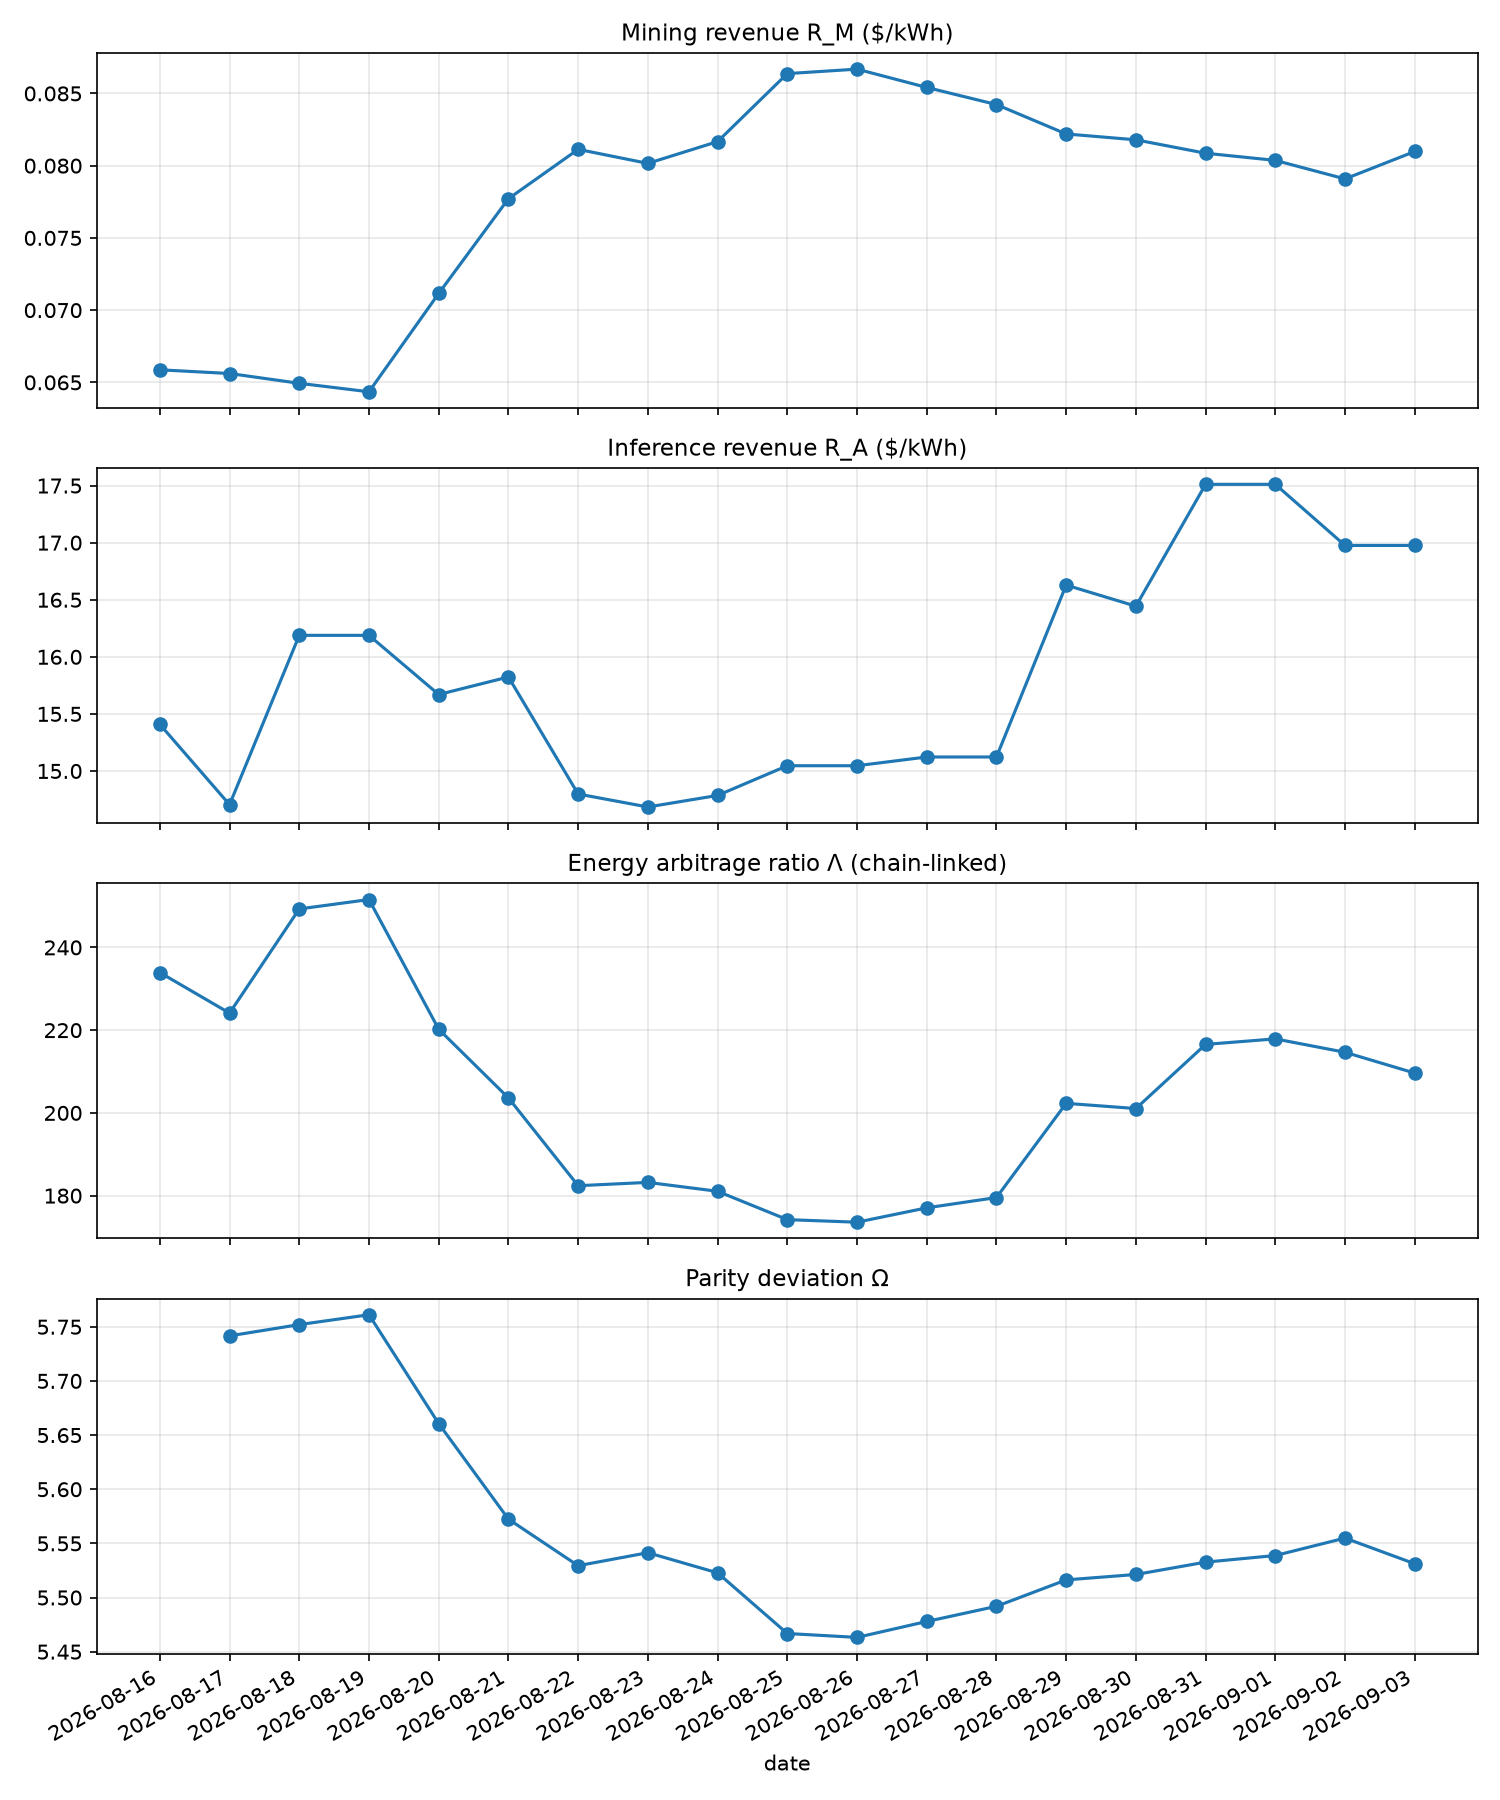
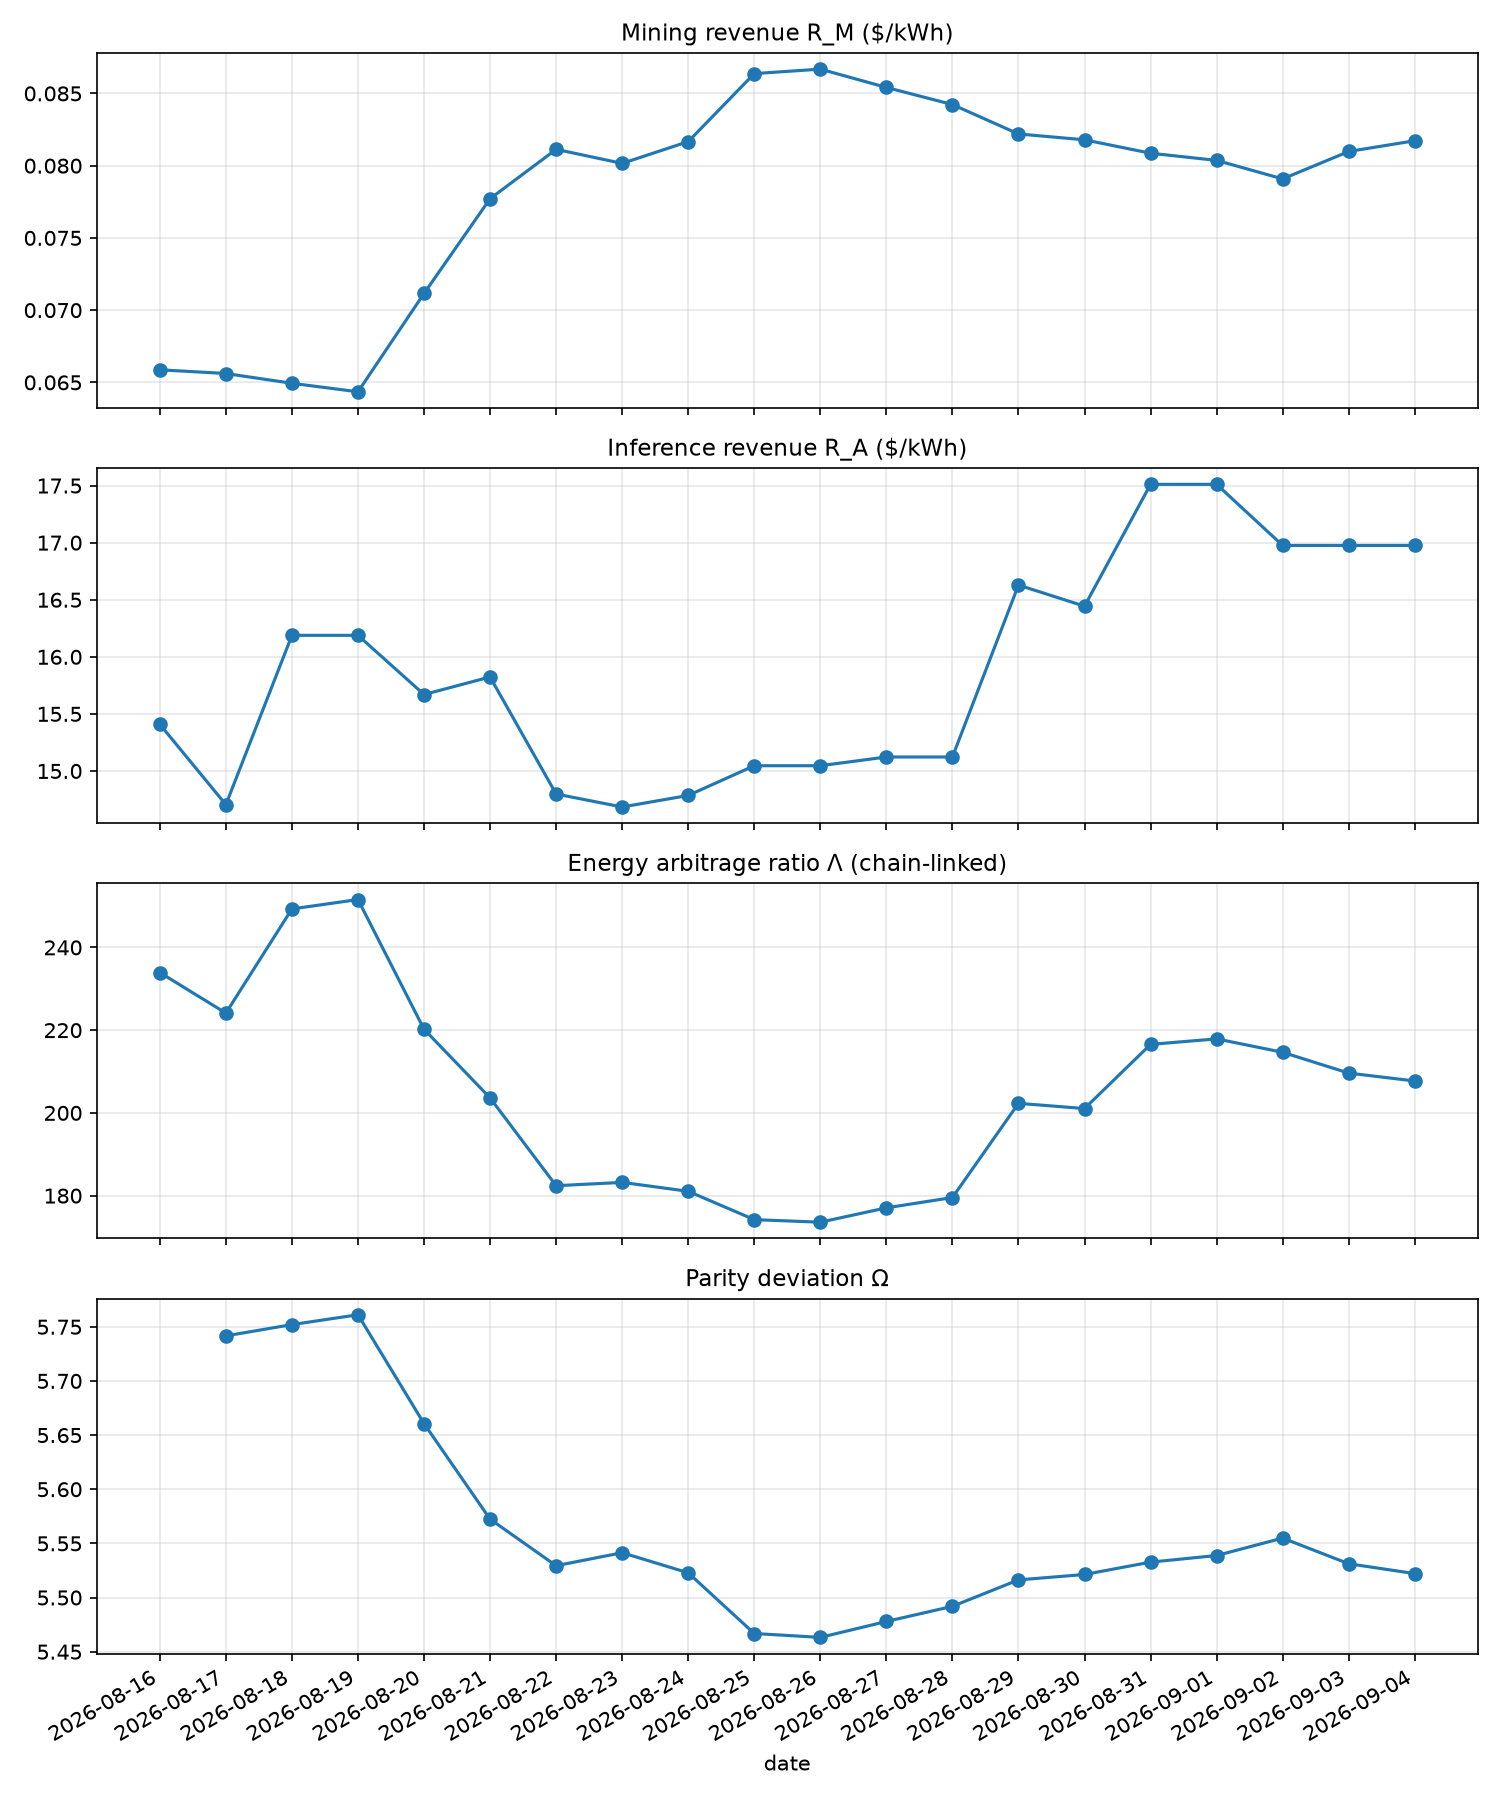
daily update 2026-09-04

diff --git a/docs/index.html b/docs/index.html
@@ -96,7 +96,7 @@ footer a { color: var(--faint); }
   <div class="eyebrow">Abundantics · 丰裕学 / 实证模块 01</div>
   <h1>Token 能量平价指数</h1>
   <p class="sub">同一焦耳，两种耗散：AI 推理 token 与 PoW 加密货币折算到同一物理公分母（每千瓦时收入）后的日频指数族。</p>
-  <div class="stamp">最近更新 2026-09-03 · 数据源 CoinGecko / mempool.space / OpenRouter · 自动更新</div>
+  <div class="stamp">最近更新 2026-09-04 · 数据源 CoinGecko / mempool.space / OpenRouter · 自动更新</div>
 </header>
 
 <div class="kwh">
@@ -107,21 +107,21 @@ footer a { color: var(--faint); }
     <div class="tick" style="left:33.3%"><span>$0.10</span></div>
     <div class="tick" style="left:66.7%"><span>$1</span></div>
     <div class="tick" style="left:98.0%"><span>$10</span></div>
-    <div class="pin mine" style="left:30.3%"><b>挖矿 $0.081</b></div>
+    <div class="pin mine" style="left:30.4%"><b>挖矿 $0.082</b></div>
     <div class="pin infer" style="left:98.0%"><b>推理 $16.98</b></div>
   </div>
-  <div class="verdict">当前能量套利比 <strong>Λ = 209.6</strong>：一度电喂给推理的毛收入是喂给挖矿的 210 倍（毛收入口径，未扣 GPU 折旧等非电成本）。</div>
+  <div class="verdict">当前能量套利比 <strong>Λ = 207.7</strong>：一度电喂给推理的毛收入是喂给挖矿的 208 倍（毛收入口径，未扣 GPU 折旧等非电成本）。</div>
 </div>
 
 <div class="cards">
   <div class="card"><div class="k">R_M · 挖矿每度电毛收入</div>
-    <div class="v copper">$0.0810</div><div class="d">美元/kWh，由链上数据自算 hashprice ÷ 全网加权能耗</div></div>
+    <div class="v copper">$0.0817</div><div class="d">美元/kWh，由链上数据自算 hashprice ÷ 全网加权能耗</div></div>
   <div class="card"><div class="k">R_A · 推理每度电毛收入</div>
     <div class="v cobalt">$16.98</div><div class="d">美元/kWh，用量加权模型篮子，标准 token 当量</div></div>
   <div class="card"><div class="k">Λ · 能量套利比</div>
-    <div class="v graphite">209.6</div><div class="d">R_A / R_M，毛收入口径 · 链式接续序列 · chain-linked</div></div>
+    <div class="v graphite">207.7</div><div class="d">R_A / R_M，毛收入口径 · 链式接续序列 · chain-linked</div></div>
   <div class="card"><div class="k">Ω · 平价偏离指数</div>
-    <div class="v oxblood">5.531</div><div class="d">ln(焦耳平价汇率 / 市场隐含汇率)，防御性 vs 生产性耗散的定价缺口</div></div>
+    <div class="v oxblood">5.522</div><div class="d">ln(焦耳平价汇率 / 市场隐含汇率)，防御性 vs 生产性耗散的定价缺口</div></div>
 </div>
 
 <section class="charts">
@@ -158,7 +158,7 @@ footer a { color: var(--faint); }
 </footer>
 </div>
 
-<script>window.__PARITY__ = {"dates": ["2026-08-16", "2026-08-17", "2026-08-18", "2026-08-19", "2026-08-20", "2026-08-21", "2026-08-22", "2026-08-23", "2026-08-24", "2026-08-25", "2026-08-26", "2026-08-27", "2026-08-28", "2026-08-29", "2026-08-30", "2026-08-31", "2026-09-01", "2026-09-02", "2026-09-03"], "series": {"R_M": [0.06587, 0.065614, 0.064936, 0.064349, 0.071155, 0.077712, 0.081129, 0.080158, 0.081666, 0.086372, 0.086682, 0.085415, 0.08423, 0.082195, 0.08179, 0.080861, 0.080366, 0.079084, 0.080982], "R_A": [15.4088, 14.7051, 16.1883, 16.1883, 15.6699, 15.8235, 14.7983, 14.6847, 14.7859, 15.0462, 15.0462, 15.1227, 15.1227, 16.6286, 16.4437, 17.511, 17.511, 16.9756, 16.9756], "Lambda": [233.93, 224.12, 249.3, 251.57, 220.22, 203.62, 182.4, 183.2, 181.05, 174.2, 173.58, 177.05, 179.54, 202.31, 201.05, 216.56, 217.89, 214.65, 209.62], "Omega": [null, 5.7416, 5.752, 5.7611, 5.6606, 5.5724, 5.5294, 5.5414, 5.5228, 5.4668, 5.4632, 5.4779, 5.4919, 5.5163, 5.5213, 5.5327, 5.5388, 5.5549, 5.5312]}};</script>
+<script>window.__PARITY__ = {"dates": ["2026-08-16", "2026-08-17", "2026-08-18", "2026-08-19", "2026-08-20", "2026-08-21", "2026-08-22", "2026-08-23", "2026-08-24", "2026-08-25", "2026-08-26", "2026-08-27", "2026-08-28", "2026-08-29", "2026-08-30", "2026-08-31", "2026-09-01", "2026-09-02", "2026-09-03", "2026-09-04"], "series": {"R_M": [0.06587, 0.065614, 0.064936, 0.064349, 0.071155, 0.077712, 0.081129, 0.080158, 0.081666, 0.086372, 0.086682, 0.085415, 0.08423, 0.082195, 0.08179, 0.080861, 0.080366, 0.079084, 0.080982, 0.081726], "R_A": [15.4088, 14.7051, 16.1883, 16.1883, 15.6699, 15.8235, 14.7983, 14.6847, 14.7859, 15.0462, 15.0462, 15.1227, 15.1227, 16.6286, 16.4437, 17.511, 17.511, 16.9756, 16.9756, 16.9756], "Lambda": [233.93, 224.12, 249.3, 251.57, 220.22, 203.62, 182.4, 183.2, 181.05, 174.2, 173.58, 177.05, 179.54, 202.31, 201.05, 216.56, 217.89, 214.65, 209.62, 207.71], "Omega": [null, 5.7416, 5.752, 5.7611, 5.6606, 5.5724, 5.5294, 5.5414, 5.5228, 5.4668, 5.4632, 5.4779, 5.4919, 5.5163, 5.5213, 5.5327, 5.5388, 5.5549, 5.5312, 5.5221]}};</script>
 <script src="https://cdnjs.cloudflare.com/ajax/libs/Chart.js/4.4.1/chart.umd.min.js"
         onerror="document.getElementById('jscharts').style.display='none';document.getElementById('pngfallback').style.display='block';"></script>
 <script>
